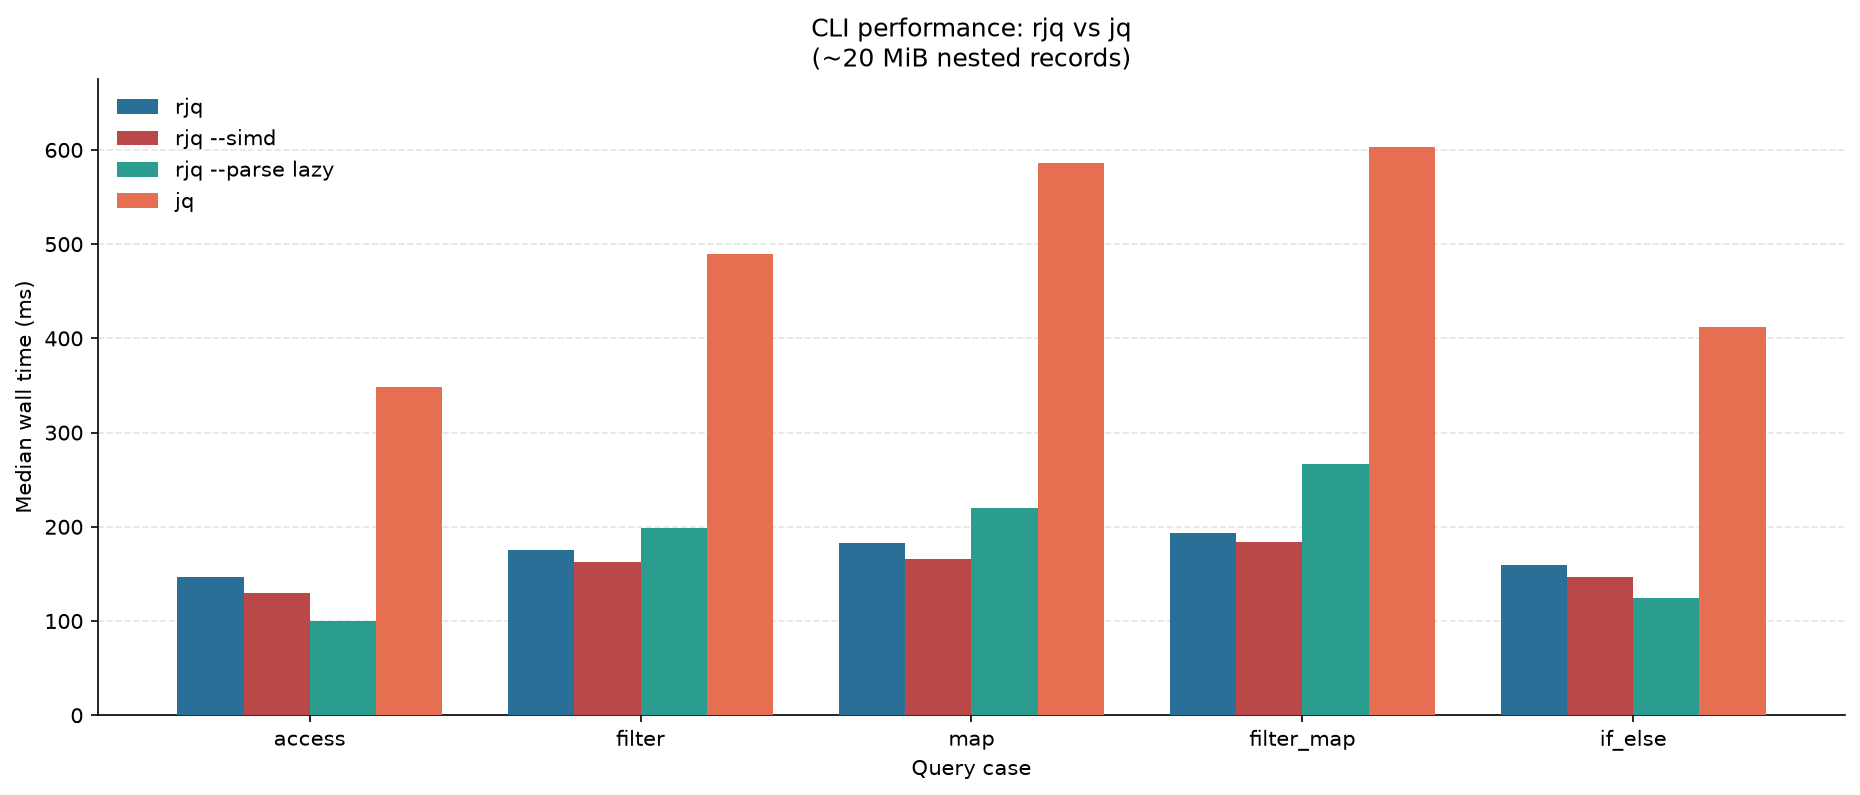
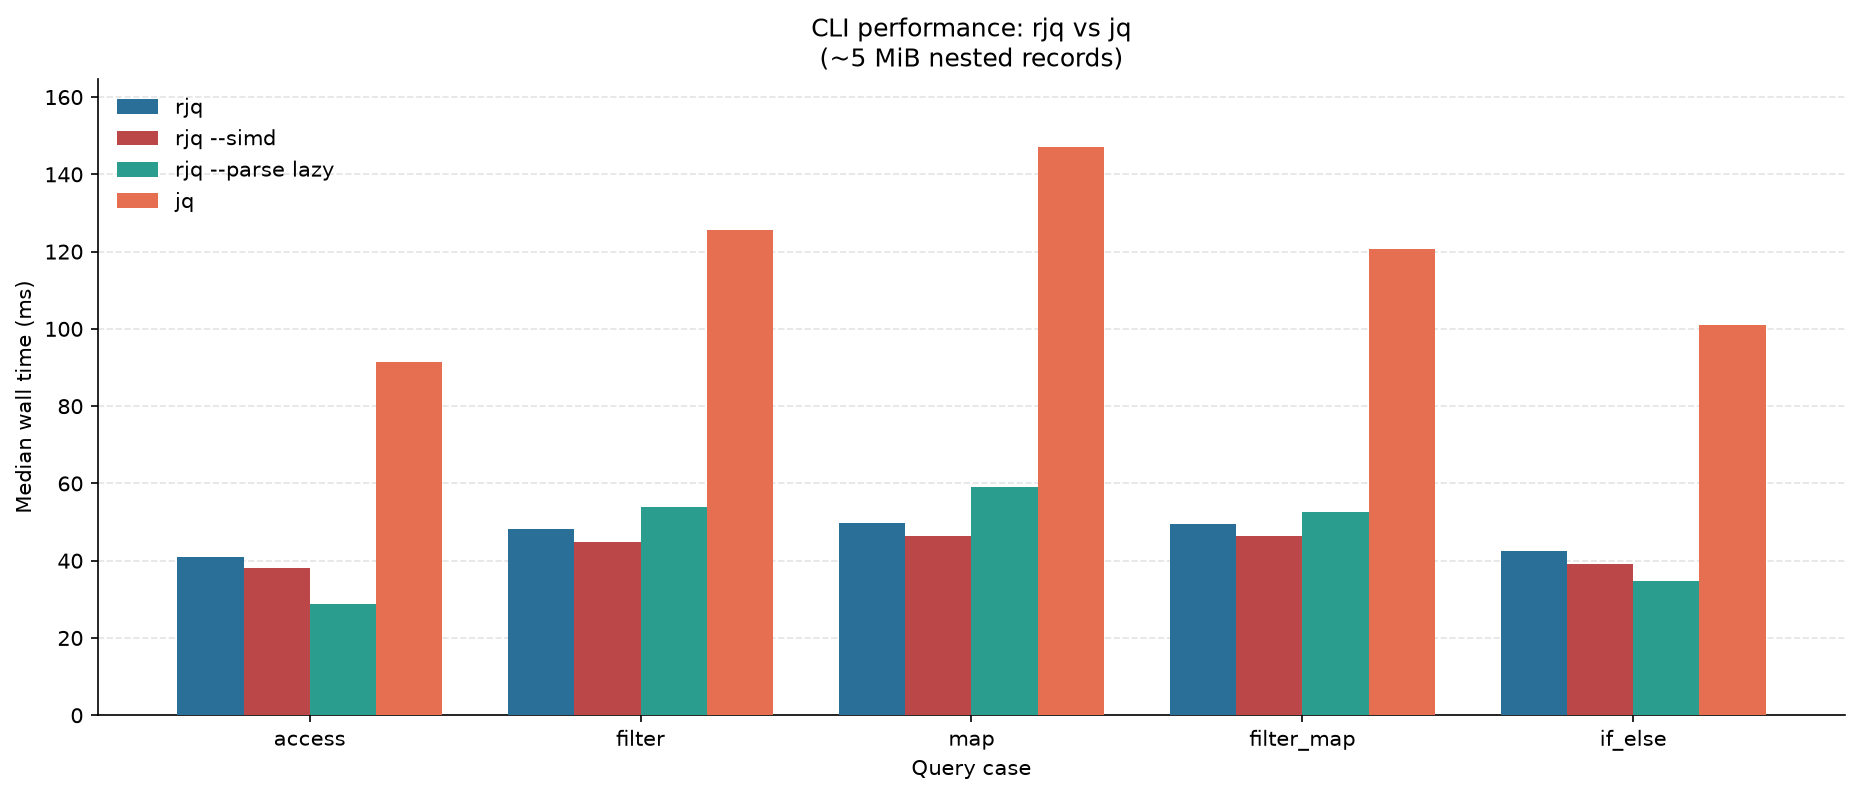
update README

diff --git a/README.md b/README.md
@@ -7,13 +7,13 @@ Median wall time on a ~5 MiB JSON.
 ![CLI performance: rjq vs jq](benchmark/plot.png)
 
 ```
-case         rjq eager              rjq lazy                    jq ms
---------------------------------------------------------------------
-access       50.98 ms (x1.81 jq)    27.30 ms (x3.38 jq)         92.29
-filter       58.57 ms (x2.17 jq)    52.51 ms (x2.42 jq)        126.87
-map          60.53 ms (x2.55 jq)    56.65 ms (x2.73 jq)        154.43
-filter_map   64.77 ms (x1.89 jq)    50.01 ms (x2.45 jq)        122.61
-if_else      54.16 ms (x1.90 jq)    32.21 ms (x3.19 jq)        102.67
+case         rjq eager              rjq --simd             rjq lazy                    jq ms
+------------------------------------------------------------------------------------------
+access       40.92 ms (x2.24 jq)    38.21 ms (x2.40 jq)    28.81 ms (x3.18 jq)         91.52
+filter       48.32 ms (x2.60 jq)    44.97 ms (x2.79 jq)    53.79 ms (x2.33 jq)        125.52
+map          49.71 ms (x2.96 jq)    46.33 ms (x3.17 jq)    59.11 ms (x2.49 jq)        147.03
+filter_map   49.44 ms (x2.44 jq)    46.30 ms (x2.60 jq)    52.62 ms (x2.29 jq)        120.57
+if_else      42.63 ms (x2.37 jq)    39.07 ms (x2.58 jq)    34.86 ms (x2.90 jq)        100.96
 ```
 **Optimization methods**
 
